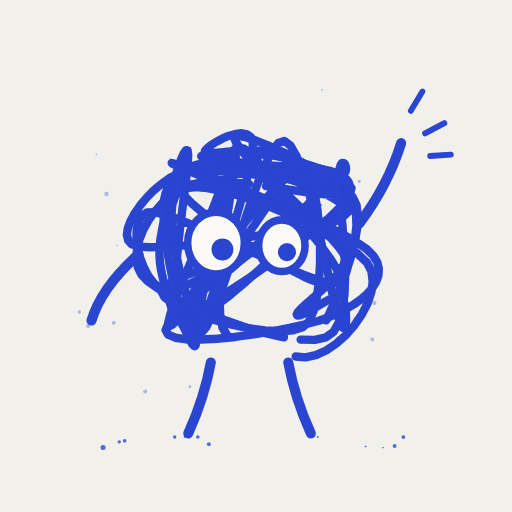
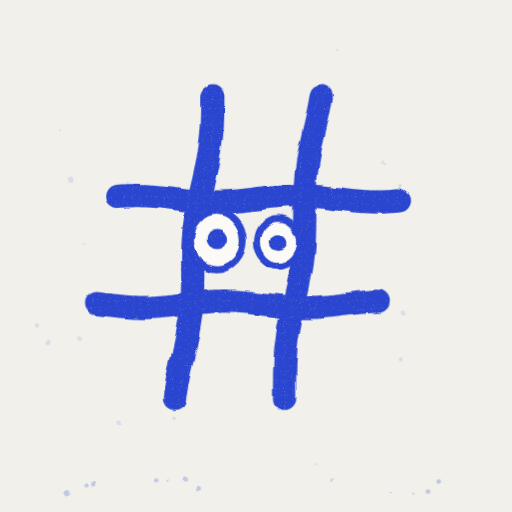
Tex's contact card shows the calm Tex, not the chaotic scribble (#1967)
Dev asked for the contact card to use the calm, googly-eyed # rather than
the chaos-100 scribble. The photo is now figureGeometry at chaos 0 in Tex
blue on the same paper, rendered with the app's rough-ink filter.
CARD_VERSION goes to 3 so each chat with the old card, and the line's Name &
Photo, picks up the new one once.

Claude-Session: https://claude.ai/code/session_01ESVP31Fb8PqejTGXihBanV

diff --git a/apps/agent/src/card.ts b/apps/agent/src/card.ts
@@ -11,8 +11,9 @@
  * taken from a request.
  *
  * The photo is `apps/mobile/public/texts-card.png`: Tex, the mascot, drawn
- * from `apps/mobile/features/chaos/figureGeometry.ts` at chaos 100 in Tex blue
- * on paper (Dev2, 2026-10-18: the white # on blue "is not Tex's logo"),
+ * from `apps/mobile/features/chaos/figureGeometry.ts` at chaos 0, the calm
+ * googly-eyed #, in Tex blue on paper (Dev2, 2026-10-18: the white # on blue
+ * "is not Tex's logo"; Dev, 2026-10-20: the calm Tex, not the chaotic one),
  * inlined so serving the card needs nothing else.
  */
 
@@ -22,10 +23,10 @@ export const CARD_MEDIA_TYPE = "text/vcard";
  * Bump when the card or its photo changes: every Sendblue chat that has an
  * older card gets the new one once, and the line's Name & Photo is set again.
  */
-export const CARD_VERSION = 2;
+export const CARD_VERSION = 3;
 
 const PHOTO_PNG =
[2 lines of base64/hex data omitted]
 
 /** RFC 6350 folds a line past 75 octets: CRLF, then a space. */
 function fold(line: string): string {
